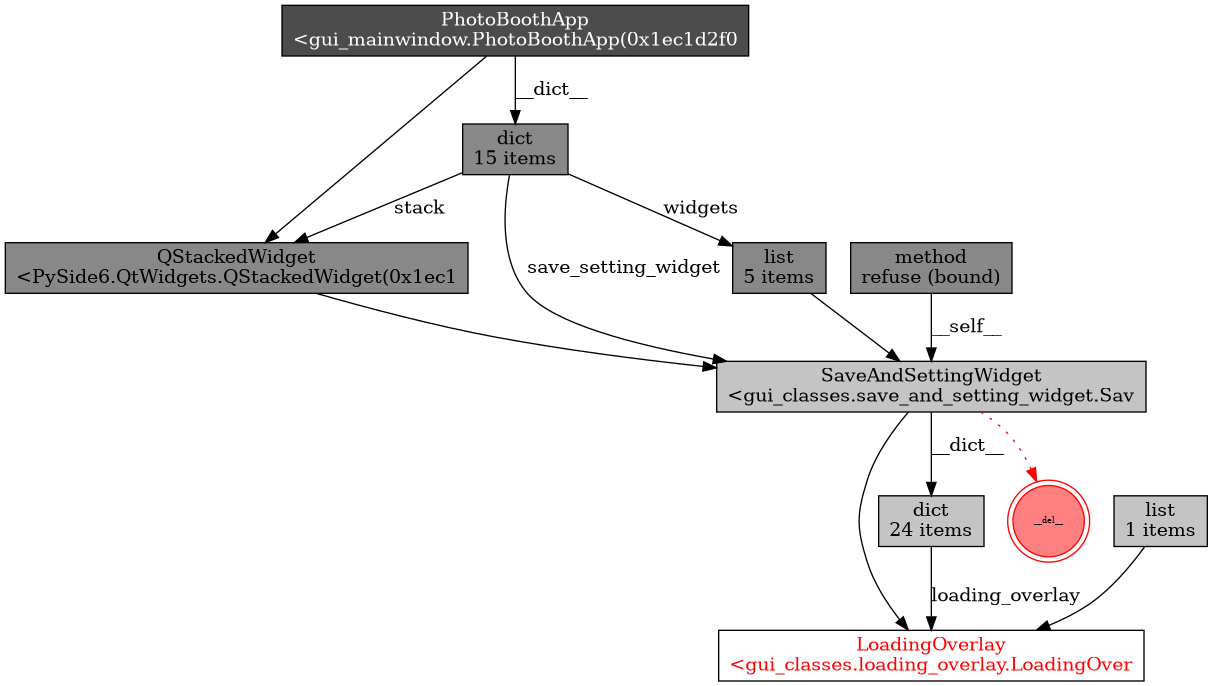
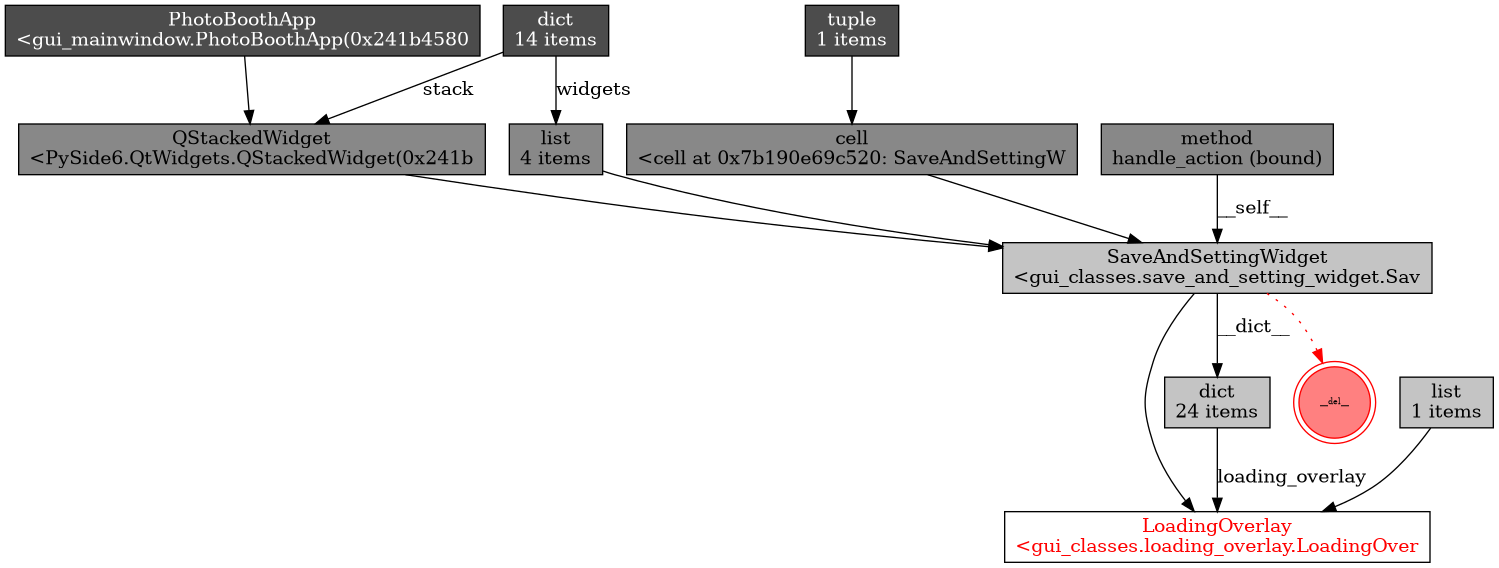
+

diff --git a/gui_mainwindow.py b/gui_mainwindow.py
@@ -89,7 +89,7 @@ class PhotoBoothApp(QWidget):
             widget.loading_overlay.deleteLater()
             widget.loading_overlay = None
             
-            # Force le garbage collector
+            # Force le garbage collectorIG RRNNR    GHGH    GÀ
             gc.collect()
             
             # Vérifie s'il reste des overlays en mémoire
@@ -116,32 +116,38 @@ class PhotoBoothApp(QWidget):
 
     def set_view(self, index: int):
         print(f"[MEM] Avant set_view({index})")
-        import gc, objgraph
         gc.collect()
         objgraph.show_growth(limit=10)
         prev_index = self.stack.currentIndex()
         prev_widget = self.widgets[prev_index] if 0 <= prev_index < len(self.widgets) else None
-        next_widget = self.widgets[index] if 0 <= index < len(self.widgets) else None
 
-        # Appelle cleanup si dispo
-        if prev_widget and hasattr(prev_widget, "cleanup"):
-            prev_widget.cleanup()
+        # Nettoyage complet du widget précédent
+        if prev_widget:
+            if hasattr(prev_widget, "cleanup"):
+                prev_widget.cleanup()
+            self._cleanup_widget(prev_widget)
+            self.stack.removeWidget(prev_widget)
+            prev_widget.setParent(None)
+            self.widgets[prev_index] = None
 
-        # Cas particulier : passage direct CameraWidget -> SaveAndSettingWidget (garde le thread)
-        if not (prev_index == 1 and index == 2):
-            if prev_widget:
-                self._cleanup_widget(prev_widget)
+        # Création du widget cible si besoin
+        if index == 0:
+            new_widget = WelcomeWidget(self)
+        elif index == 1:
+            new_widget = CameraWidget(self)
+        elif index == 2:
+            new_widget = SaveAndSettingWidget(self)
+        else:
+            raise ValueError(f"Vue inconnue: {index}")
 
-        if prev_index == 1 and index != 1:
-            self.camera_widget.stop_camera()
-
+        self.widgets[index] = new_widget
+        self.stack.insertWidget(index, new_widget)
         self.stack.setCurrentIndex(index)
+        if index == 1:
+            new_widget.start_camera()
         print(f"[MEM] Après set_view({index})")
         gc.collect()
         objgraph.show_growth(limit=10)
-
-        if index == 1:
-            self.camera_widget.start_camera()
 
     def log_resource_usage(self):
         # Affiche les 20 types d'objets les plus courants

diff --git a/gui_classes/btn.py b/gui_classes/btn.py
@@ -114,14 +114,30 @@ class Btns:
         col_max = layout.columnCount() if hasattr(layout, "columnCount") else 7
         n1 = len(self.style1_btns)
         if n1 > 0:
-            col1 = (col_max - n1) // 2
-            for i, btn in enumerate(self.style1_btns):
-                btn.place(layout, start_row, col1 + i)
+            # Si pair, on saute la colonne centrale
+            if n1 % 2 == 0:
+                mid = col_max // 2
+                left = (col_max - n1 - 1) // 2
+                for i, btn in enumerate(self.style1_btns):
+                    col = left + i if i < n1 // 2 else left + i + 1
+                    btn.place(layout, start_row, col)
+            else:
+                col1 = (col_max - n1) // 2
+                for i, btn in enumerate(self.style1_btns):
+                    btn.place(layout, start_row, col1 + i)
         n2 = len(self.style2_btns)
         if n2 > 0:
-            col2 = (col_max - n2) // 2
-            for i, btn in enumerate(self.style2_btns):
-                btn.place(layout, start_row + 1, col2 + i)
+            # Si pair, on saute la colonne centrale
+            if n2 % 2 == 0:
+                mid = col_max // 2
+                left = (col_max - n2 - 1) // 2
+                for i, btn in enumerate(self.style2_btns):
+                    col = left + i if i < n2 // 2 else left + i + 1
+                    btn.place(layout, start_row + 1, col)
+            else:
+                col2 = (col_max - n2) // 2
+                for i, btn in enumerate(self.style2_btns):
+                    btn.place(layout, start_row + 1, col2 + i)
 
     def cleanup(self):
         for btn in self.style1_btns + self.style2_btns:

diff --git a/constante.py b/constante.py
@@ -378,22 +378,24 @@ VALIDATION_OVERLAY_MESSAGE = "Merci de lire et accepter les règles avant de con
 # --- Styles personnalisables pour les boutons ---
 BTN_STYLE_ONE = (
     "QPushButton {"
-    "background-color: rgba(255, 128, 0, 0.95);"  # Orange plus visible
-    "border: 4px solid white;"                    # Bordure plus épaisse
-    "border-radius: 40px;"                        # Plus arrondi
-    "min-width: 80px; min-height: 80px;"         # Taille plus grande
+    "background-color: rgba(80,80,80,0.18);"
+    "border: 2.5px solid #888;"
+    "border-radius: 40px;"
+    "min-width: 80px; min-height: 80px;"
     "max-width: 80px; max-height: 80px;"
     "font-size: 24px;"
-    "color: white;"
+    "color: #eee;"
     "font-weight: bold;"
     "}"
     "QPushButton:hover {"
-    "background-color: rgba(255, 160, 0, 1.0);"
-    "border: 5px solid white;"
+    "border: 3px solid #bbb;"
+    "background-color: rgba(120,120,120,0.22);"
+    "color: #fff;"
     "}"
-    "QPushButton:pressed {"
-    "background-color: rgba(255, 200, 0, 1.0);"
-    "border: 6px solid white;"
+    "QPushButton:pressed, QPushButton:checked {"
+    "background-color: rgba(220,220,220,0.32);"
+    "border: 3.5px solid #fff;"
+    "color: #222;"
     "}"
 )
 

diff --git a/gui_classes/camera_widget.py b/gui_classes/camera_widget.py
@@ -27,8 +27,8 @@ class CameraWidget(PhotoBoothBaseWidget):
         self.setup_buttons(
             style1_names=["take_selfie"],
             style2_names=list(dico_styles.keys()),
-            slot_style1="capture",
-            slot_style2="on_toggle"
+            slot_style1=self.capture,
+            slot_style2=lambda checked, btn=None: self.on_toggle(checked, btn.text() if btn else None)
         )
         self.overlay_widget.raise_()
         self.btns.raise_()  # Force les boutons au premier plan
